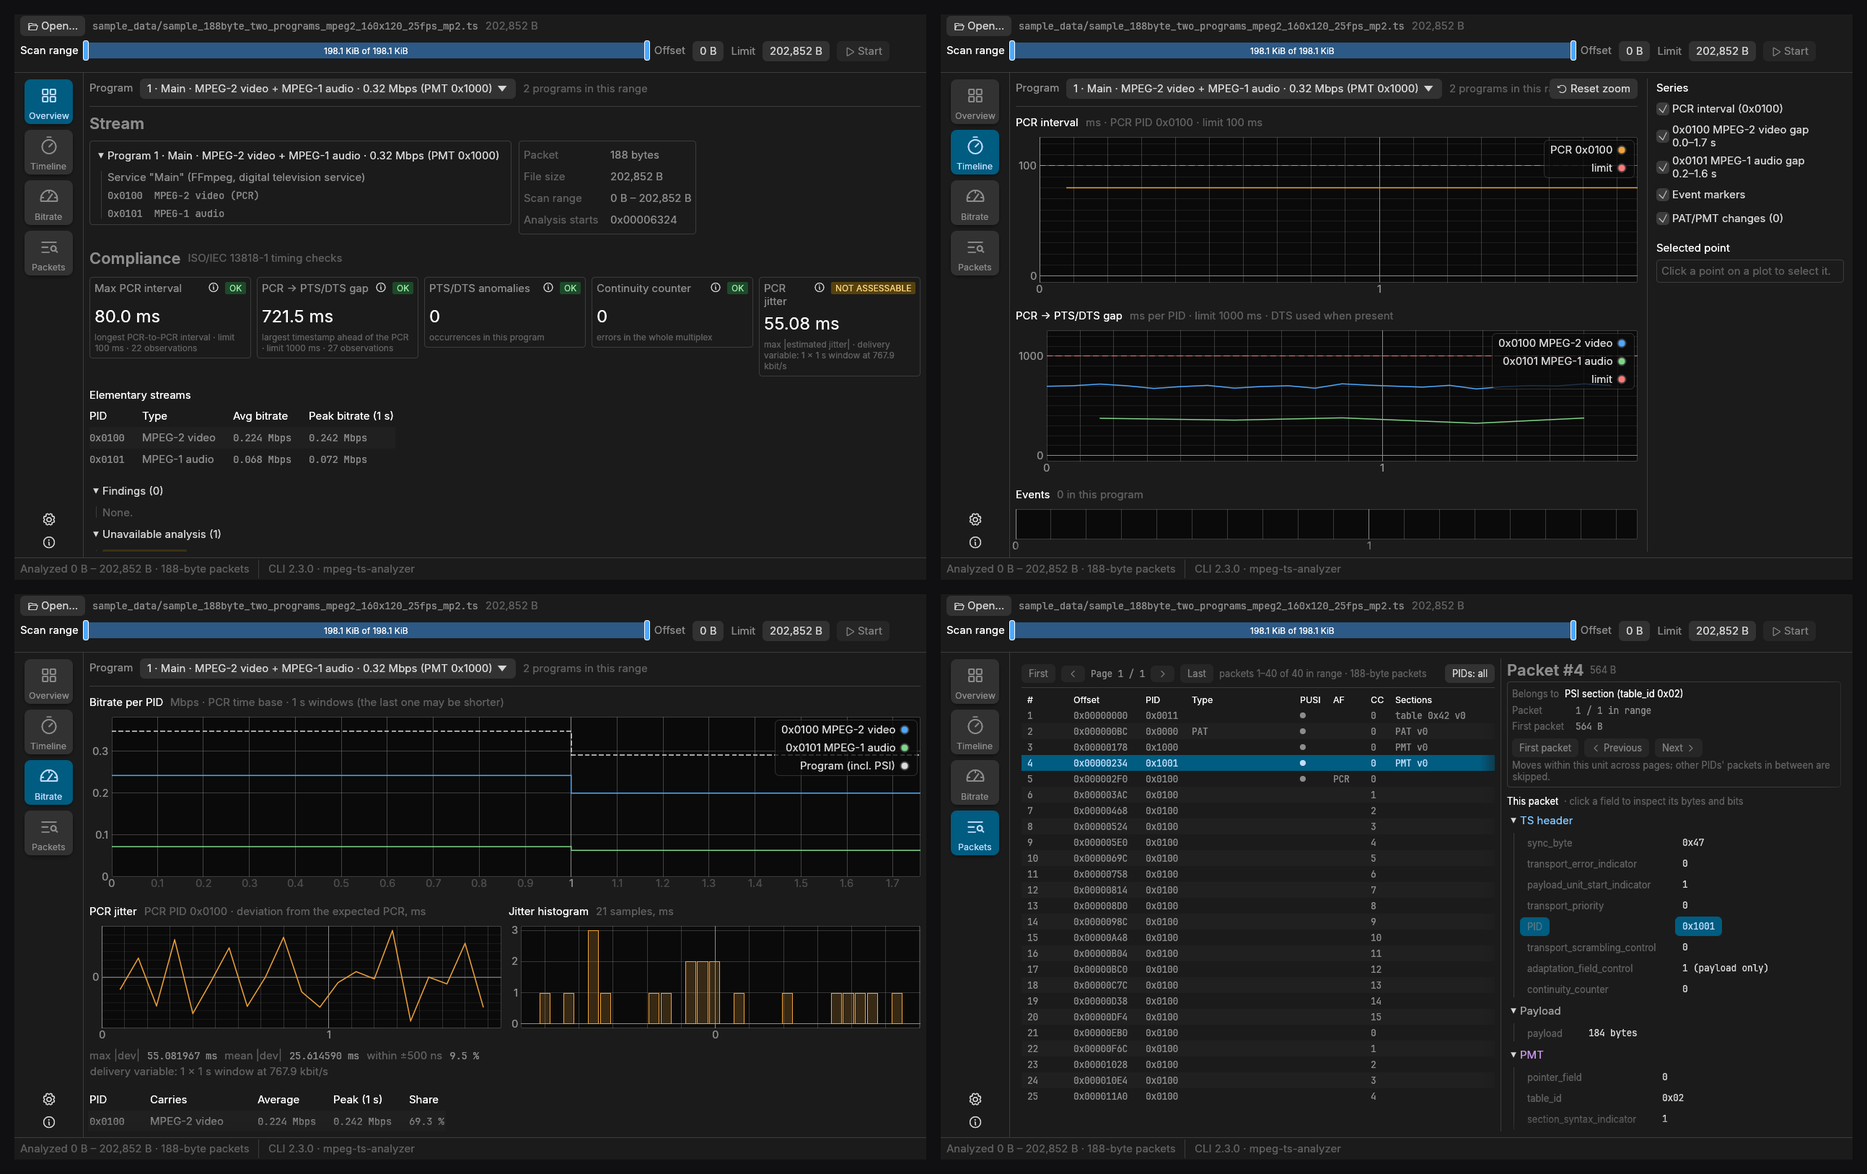
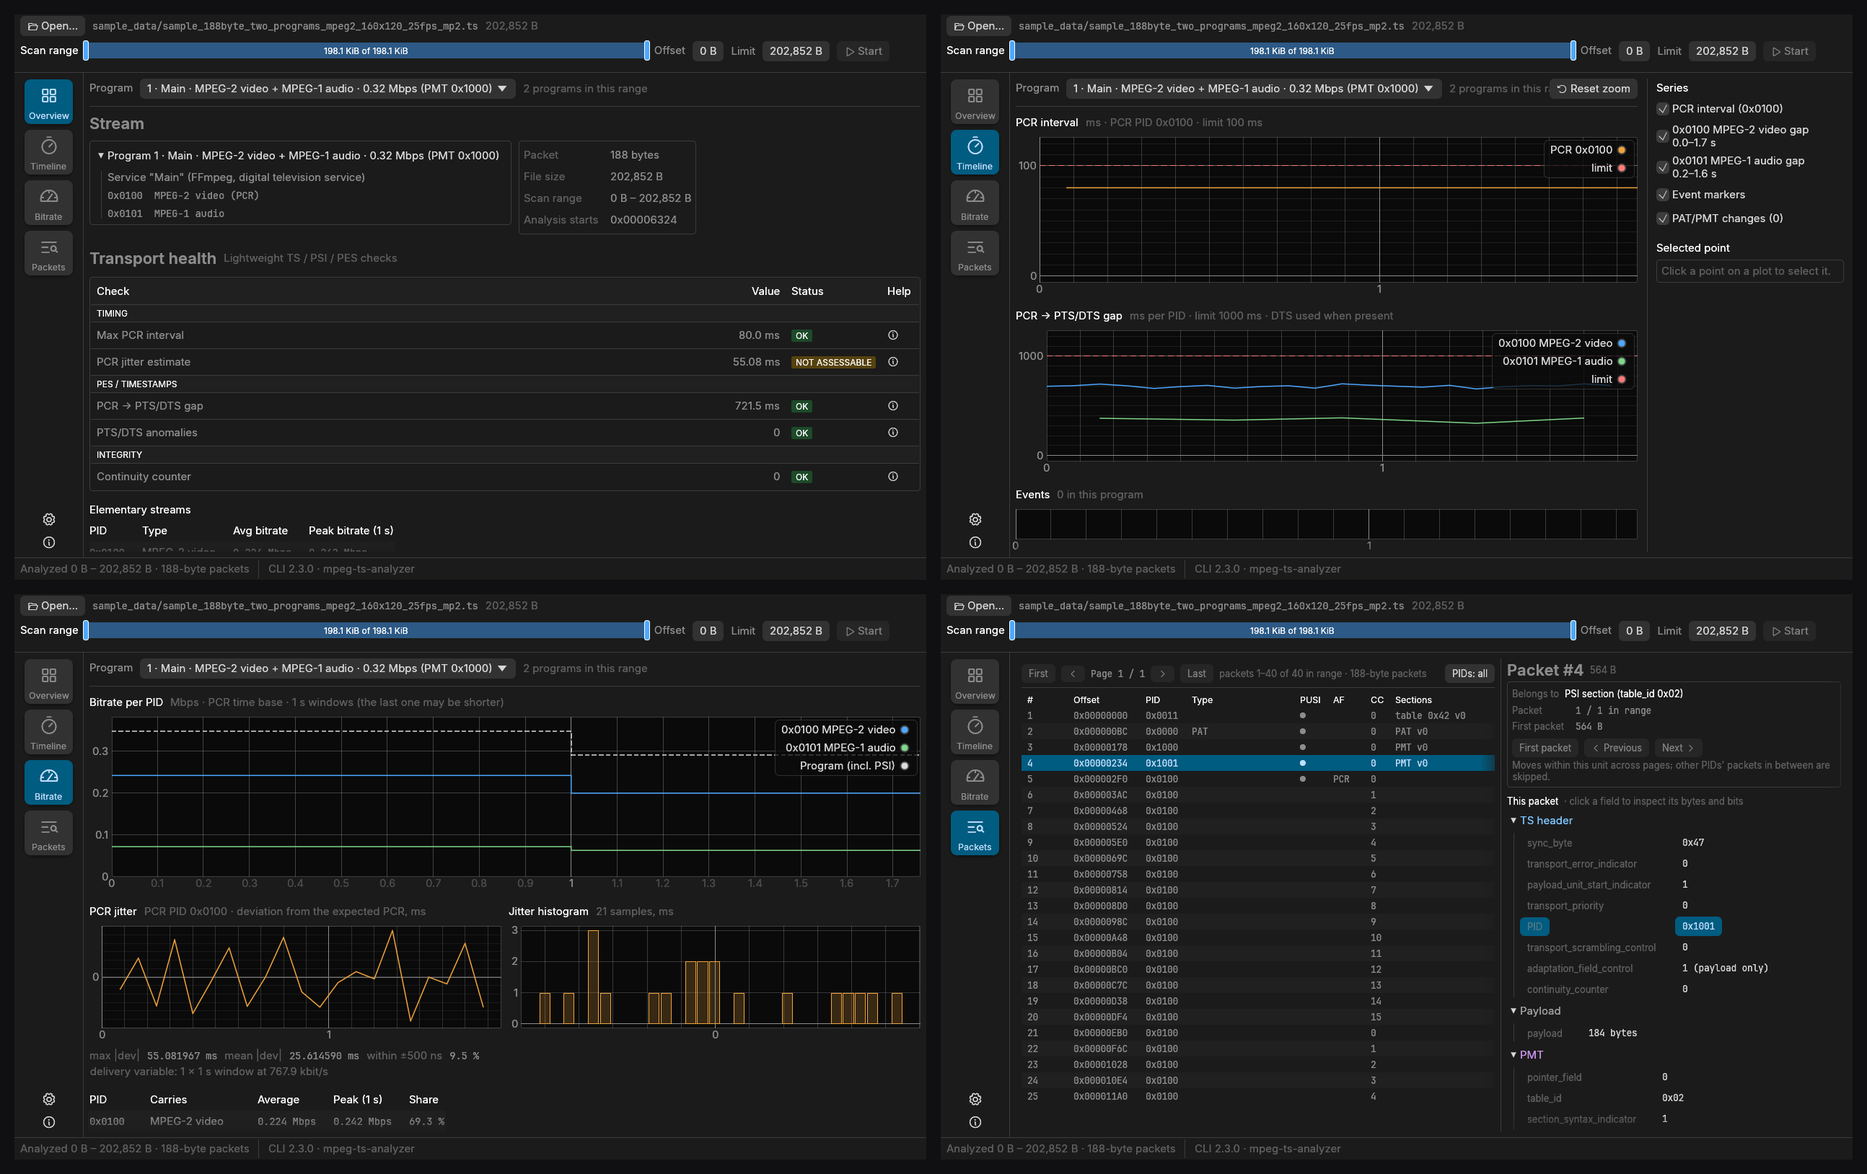
Document the Transport health table and check pages
Update the GUI design (Overview section and decisions) and the Overview
guide, call the diagnostic sample's defects checks rather than cards, and
regenerate docs/images/gui-tabs.png.

diff --git a/tools/generate_all_findings/main.go b/tools/generate_all_findings/main.go
@@ -1,5 +1,5 @@
 // Command generate_all_findings writes a short, deterministic transport stream
-// in which every Overview compliance card of the range analysis reports a
+// in which every Overview transport-health check of the range analysis reports a
 // non-OK result. It is intentionally invalid: use it to demonstrate and test
 // the verdicts, never as an example of a compliant stream.
 //

diff --git a/docs/gui/design.md b/docs/gui/design.md
@@ -141,40 +141,75 @@ not affected by it.
 
 Stream section first (program tree with PIDs and PCR PID; the PAT changes and
 the program's PMT changes in the range, with the PIDs they add, remove or
-retype and PMT PID moves; file information), then compliance
-check cards, the elementary stream table, and findings.
+retype and PMT PID moves; file information), then the Transport health table,
+the elementary stream table, findings and unavailable analysis. Overview has
+two pages (`OverviewPage`): the summary, and the full-page explanation of one
+check (`CheckDetail`).
 
-- **Cards**: Max PCR interval, PCR → PTS/DTS gap, PTS/DTS anomalies,
-  Continuity counter and PCR jitter, each with the CLI's status as a badge,
-  the value and a short note (PCR jitter: the CLI's delivery assessment and
-  its evidence, or the reason it is not assessable).
-- **Explanations**: a focusable information button next to each card title
-  (accessible name and tooltip `About <card>`) opens a window titled with the
-  card: what it measures, scope, value, every status with its threshold,
-  when it is skipped, limitations and a link to Timeline or Bitrate. Escape,
-  the close button or a click outside closes it; it keeps no other state. The
-  texts live in one table, `gui/src/views/metric_help.rs`, and state the
-  CLI's thresholds (100 ms, 1000 ms, ±500 ns, ±25 µs) and, for PCR jitter, the
-  byte-position model, the delivery assessment (1-second window rates within
-  ±1 %, no estimate beyond 1 ms) and `not_assessable`.
-- **Layout**: the cards form a row-major grid. The column count is how many
-  220-point cards with 8-point spacing fit in the visible width (at least one);
-  cards in a row share the width equally, and below one card width the single
-  card takes the available width and its text wraps. The title wraps beside
-  the badge and button instead of overlapping them. The stream section stacks
-  the program and the file information below 760 points, and the elementary
-  stream table scrolls horizontally on its own, so nothing widens the page.
+- **Transport health table**: one non-collapsible table with the columns
+  Check, Value, Status and Help, grouped by category. The order is fixed:
+  Timing (Max PCR interval, PCR jitter estimate), PES / Timestamps
+  (PCR → PTS/DTS gap, PTS/DTS anomalies), Integrity (Continuity counter).
+  Structure and Multiplexing join as their checks land (#157). A check is
+  listed when the CLI reported it. There is no scope column or badge: the
+  selected program is shown above, and exceptions (Continuity counter covers
+  the whole multiplex) are on the detail page. Status is the CLI's status
+  verbatim as a badge sized to its text; a status the GUI does not describe
+  keeps the warning color and a tooltip saying so. Help holds the focusable
+  information button (accessible name and tooltip `About <check>`).
+- **Layout**: Value, Status and Help are as wide as their widest cell,
+  measured from the text, and keep that width at every window size; Check
+  takes the rest and its name wraps. The other cells are centered on the
+  check name, Value right-aligned. The table uses the visible width, so a
+  narrow window never scrolls sideways for it. The stream section stacks the
+  program and the file information below 760 points, and the elementary
+  stream table scrolls horizontally on its own.
+- **Check model**: `gui/src/views/check_help.rs` holds one entry per check —
+  category, title, a one-line summary, what it measures, what it applies to,
+  what the value means, every status with its condition, when it is skipped,
+  limitations and the Timeline or Bitrate link — and its order is the table
+  order. `overview::row` turns the report into a check's value, status and
+  current result (only fields the CLI provided). A new check is one
+  `check_help` entry and one `row` arm. The texts state the CLI's thresholds
+  (100 ms, 1000 ms, ±500 ns, ±25 µs) and, for PCR jitter, the byte-position
+  model, the delivery assessment (1-second window rates within ±1 %, no
+  estimate beyond 1 ms) and `not_assessable`.
+- **Detail page**: opened by the information button or a findings link, inside
+  the Overview area (no window). Back to Overview stays above the page's own
+  scroll area. The page has the title and status, the summary line, Current
+  result (label and value, wrapping), the check's findings, Verdicts (the only
+  table: status badge and condition per status; the current status is
+  highlighted and its row marked selected), then What it measures, Applies
+  to, What the value means, When it is skipped, Limitations and Details with
+  `Open Timeline` / `Open Bitrate`, each a heading over a wrapped paragraph. A
+  finding with an offset has `Open packet`; one that Timeline marks as an
+  event (a continuity error on a PID of the program) also has
+  `Show on timeline`, which selects that event. Summary-only findings get no
+  offset.
+- **State**: `OverviewState` keeps the page, the summary's vertical scroll
+  offset and where focus goes. Opening a page focuses Back and starts the page
+  at its top; Back, or the Overview tile while Overview is shown, restores the
+  summary's offset and returns focus to the information button that opened
+  the page. The program selection is shared with Timeline and Bitrate and is
+  not touched. Navigation never reruns or rebuilds the analysis; a new
+  analysis shows its summary.
+- **Accessibility**: headings (Transport health, categories, the page title,
+  the page sections) are AccessKit headings; the tables, their rows (named
+  after the check, value and status, or the verdict and condition), column
+  headers and cells have table semantics with bounds; the page status is
+  announced as `Status: <status>`; Back, the information buttons, the finding
+  actions and the navigation buttons are named buttons reachable with Tab.
 - **Findings** are one normalized list built from the report
   (`overview::findings`): a finding for each failed compliance check, each
-  PTS/DTS anomaly group, each continuity event (one finding for the card if
-  the CLI reported errors without events), PCR jitter (labeled as an
-  estimate) and each analyzer warning. Any status other than `ok` and
-  `skipped`, including one the GUI does not know, is a finding with the CLI's
-  status as its badge, so an `NG` or `WARNING` card can never sit next to an
-  empty list. Each finding names its scope (program or whole multiplex); its
-  metric link opens the card's explanation. `skipped` cards and a PCR jitter
-  card that is `not_assessable` are listed under "Unavailable analysis" with
-  their status as the badge and the CLI's reason; they are not findings.
+  PTS/DTS anomaly group, each continuity event (one finding for the check if
+  the CLI reported errors without events), PCR jitter and each analyzer
+  warning. Any status other than `ok`, `skipped` and `not_assessable`,
+  including one the GUI does not know, is a finding with the CLI's status as
+  its badge, so an `NG` or `WARNING` row can never sit next to an empty list.
+  Each finding names its scope (program or whole multiplex); its check link
+  opens the check's page. `skipped` checks and a PCR jitter estimate that is
+  `not_assessable` are listed under "Unavailable analysis" with their status
+  as the badge and the CLI's reason; they are not findings.
 
 ### Timeline
 
@@ -481,9 +516,10 @@ GUI; the signed trusted comment must name exactly that file. Only then does
 | In-app update with `cargo-packager-updater` (#150) | Avoids the macOS "Open Anyway" detour after the first install; already part of the packaging toolchain; verifies a minisign signature and handles `.app`, NSIS and AppImage | Own downloader and installer; Sparkle (macOS only); only linking to the release page |
 | Find updates through the Releases API and a manifest asset of each release | No extra hosting; works with GUI releases that are not "latest" | A fixed-URL manifest on GitHub Pages (the docs workflow owns the Pages deployment) |
 | Startup update check on by default, with a setting | Users learn about releases without action; one unauthenticated request | Manual check only |
-| Explain each Overview card in a window opened by a focusable information button, from one table of texts | Works with keyboard and touch; long enough for limitations; one source for cards, findings and tests | Longer text on the cards; hover-only tooltips |
-| Overview cards in a responsive row-major grid | A narrow window must not hide a verdict | One wrapping row with fixed widths; a horizontal scroller |
-| One Findings list counting every non-OK card, events and warnings; skipped checks listed separately | The count must agree with the cards; an event counts once | The former Warnings list of parser events only |
+| Overview checks in one grouped Transport health table (Check, Value, Status, Help) instead of cards (#159) | #157 adds more checks; a table scans and compares better than a card per check, and a new check is one row; compact columns keep every verdict visible in a narrow window | A card per check in a responsive grid (#156); collapsible categories; a Scope column or badge |
+| Explain each check on a page inside Overview instead of a popup window (#159) | Long, structured text reads better in the normal content area; no separate sizing, focus, dismissal or nested scrolling; Back restores the summary as it was | A popup window per check (#156); hover-only tooltips; a top-level Checks screen |
+| One table of check texts (`check_help.rs`) for the table, detail pages, findings and tests | One source of truth; a new check is one entry | Texts in the view code |
+| One Findings list counting every non-OK check, events and warnings; skipped checks listed separately | The count must agree with the table; an event counts once | The former Warnings list of parser events only |
 | The GUI shows the CLI's statuses as they are; PCR jitter `not_assessable` is unavailable analysis, not a finding | The CLI decides whether a file-based estimate deserves a verdict (schema 2.0, #152); a variable-rate file is not evidence of a PCR fault | Downgrading or hiding `ng` in the GUI; grading the estimate in the GUI |
 | Modal progress dialog during analysis | Results of every analysis screen are being replaced; one clear place to wait and cancel | Per-screen overlays while other screens stay usable |
 

diff --git a/docs/gui/overview.md b/docs/gui/overview.md
@@ -11,9 +11,10 @@ Packages for macOS, Linux and Windows are described in
 
 [![The four GUI views: Overview and Timeline on the top row, Bitrate and Packets on the bottom row](../images/gui-tabs.png)](../images/gui-tabs.png)
 
-- **Overview** brings the detected program layout, stream properties, timing
-  compliance verdicts, continuity errors, PCR jitter, and per-stream bitrate
-  into one screen.
+- **Overview** brings the detected program layout, stream properties, the
+  transport-health checks (timing, PES timestamps, continuity), and
+  per-stream bitrate into one screen, with a full-page explanation of every
+  check.
 - **Timeline** plots the PCR interval and the PCR → PTS/DTS gap of every
   elementary stream against their limits, with continuity and PAT/PMT events.
 - **Bitrate** shows the bitrate of each PID over the range, the PCR jitter and
@@ -23,24 +24,45 @@ Packages for macOS, Linux and Windows are described in
 
 ## Read the Overview verdicts
 
-Overview shows five compliance cards for the selected program. Each card has a
-title, the verdict the CLI reported (`OK`, `NG`, `WARNING`, `ANOMALIES`,
-`ERRORS` or `SKIPPED`), the value and a short note. The **ⓘ** button next to
-the title opens an explanation of the card: what it measures, whether it covers
-the selected program or the whole multiplex, what the value means, the
-threshold behind every verdict, why it can be skipped, its limitations, and a
-link to the Timeline or Bitrate view with the details. The button can be
-reached with Tab and opened with Enter or Space; Escape, the close button or a
-click outside the window closes it. Opening it does not change the selected
-program or the analysis.
+Overview shows a **Transport health** table for the selected program. Each
+row is one check with the value and the verdict the CLI reported (`OK`, `NG`,
+`WARNING`, `ANOMALIES`, `ERRORS`, `NOT ASSESSABLE` or `SKIPPED`), grouped
+under categories that are always expanded:
 
-| Card | Scope | Verdicts |
-|---|---|---|
-| Max PCR interval | selected program (its PCR PID) | `OK` up to 100 ms, `NG` above |
-| PCR → PTS/DTS gap | selected program | `OK` up to 1000 ms, `NG` above |
-| PTS/DTS anomalies | selected program, per PID | `OK` or `ANOMALIES` |
-| Continuity counter | whole multiplex | `OK` or `ERRORS` |
-| PCR jitter | selected program (its PCR PID) | `OK` within ±500 ns, `WARNING` within ±25 µs, `NG` beyond, when delivery is constant; otherwise `NOT ASSESSABLE` |
+| Category | Check | Applies to | Verdicts |
+|---|---|---|---|
+| Timing | Max PCR interval | selected program (its PCR PID) | `OK` up to 100 ms, `NG` above |
+| Timing | PCR jitter estimate | selected program (its PCR PID) | `OK` within ±500 ns, `WARNING` within ±25 µs, `NG` beyond, when delivery is constant; otherwise `NOT ASSESSABLE` |
+| PES / Timestamps | PCR → PTS/DTS gap | selected program | `OK` up to 1000 ms, `NG` above |
+| PES / Timestamps | PTS/DTS anomalies | selected program, per PID | `OK` or `ANOMALIES` |
+| Integrity | Continuity counter | whole multiplex | `OK` or `ERRORS` |
+
+The table always lists the checks in this order. The verdict is shown exactly
+as the CLI reported it; a status this GUI does not know is still shown, with a
+tooltip saying so. In a narrow window the check names wrap and the Value,
+Status and Help columns keep their width, so every verdict stays visible
+without scrolling sideways.
+
+The **ⓘ** button in the Help column opens the check's page inside Overview;
+Overview stays selected in the left rail. The button can be reached with Tab
+and opened with Enter or Space. The page shows:
+
+- the **current result** — only what the CLI reported for this check, such as
+  the value, the limit, the program or PCR PID, the number of observations,
+  the first or worst offset, and the reason a check was skipped or not
+  assessed; for PCR jitter also the delivery assessment and its evidence;
+- the check's **findings**, each with **Open packet** when it has an offset
+  and **Show on timeline** when Timeline marks it (a continuity error on a PID
+  of the program);
+- the **verdicts**: every status the check can report and the condition behind
+  it, with the current one highlighted;
+- what the check measures, what it applies to, what the value means, when it
+  is skipped and its limitations;
+- a button that opens Timeline or Bitrate with the details.
+
+**Back to Overview** (or the Overview tile) returns to the table at the same
+scroll position, with the same program selected. Opening or leaving a page
+never runs the analysis again.
 
 PCR jitter is an **estimate**. A file has no packet-arrival timestamps, so the
 byte position stands in for time, which is exact only when the stream is
@@ -49,25 +71,22 @@ from the stream itself — its multiplex rate over 1-second windows must stay
 within ±1 % of the average, and no estimated jitter may reach 1 ms — and grades
 the estimate only when delivery is `constant`. For a `variable` or `unknown`
 delivery, such as a variable-bitrate stream without stuffing or a range shorter
-than about two seconds, the card shows `NOT ASSESSABLE` with the estimate as its
-value and the CLI's reason. Its note always gives the delivery assessment and
-evidence, for example `delivery constant: 2 × 1 s windows, max deviation 0.00 %
-of 75.2 kbit/s`. Even a graded estimate is not a direct hardware or TR 101 290
-measurement.
-
-The cards wrap to more rows as the window narrows, keeping their order, so no
-verdict is hidden off screen.
+than about two seconds, the row shows `NOT ASSESSABLE` with the estimate as its
+value, and the page gives the CLI's reason. The page always gives the delivery
+assessment and its evidence, for example `2 × 1 s windows, max deviation
+0.00 % of 75.2 kbit/s`. Even a graded estimate is not a direct hardware or
+TR 101 290 measurement.
 
 **Findings** lists everything that needs attention, and its count includes
-every card that is not `OK`: each failed check, each PTS/DTS anomaly kind per
-PID, each continuity error (with its offset), PCR jitter marked as an estimate,
-and the analyzer's warnings. Each row shows the verdict, the metric, the reason
-and whether it concerns the selected program or the whole multiplex; selecting
-the metric opens its explanation. A card counts once through its own events,
-not again for its total. A check the CLI skipped, and a PCR jitter estimate the
-CLI found `not_assessable`, are listed under **Unavailable analysis** instead,
-with the CLI's reason; they are not findings. The GUI shows the CLI's verdicts
-as they are and never changes them.
+every check that is not `OK`: each failed check, each PTS/DTS anomaly kind per
+PID, each continuity error (with its offset), PCR jitter, and the analyzer's
+warnings. Each row shows the verdict, the check, the reason and whether it
+concerns the selected program or the whole multiplex; selecting the check
+opens its page. A check counts once through its own events, not again for its
+total. A check the CLI skipped, and a PCR jitter estimate the CLI found
+`not_assessable`, are listed under **Unavailable analysis** instead, with the
+CLI's reason; they are not findings. The GUI shows the CLI's verdicts as they
+are and never changes them.
 
 To see every verdict at once, open the intentionally invalid
 [diagnostic sample](../development/sample-data.md#diagnostic-sample-with-every-overview-finding):

diff --git a/tools/generate_all_findings/README.md b/tools/generate_all_findings/README.md
@@ -1,6 +1,6 @@
 # All-findings diagnostic fixture
 
-Write a short constant-rate stream in which every Overview compliance card
+Write a short constant-rate stream in which every Overview transport-health check
 reports a problem, then check its defects with TSDuck. The stream is
 **intentionally invalid**: use it to demonstrate and test verdicts, never as an
 example of a compliant stream.
@@ -27,7 +27,7 @@ slot clock (10 s + slot × 20 ms), so the byte position is an exact time proxy.
 The stream is long enough for two 1-second windows of PCR time, so the PCR
 jitter analysis can establish constant delivery. The defects, by packet index:
 
-| Card | Defect | Expected analysis |
+| Check | Defect | Expected analysis |
 |---|---|---|
 | Max PCR interval | packets 22, 24 and 26 carry no PCR | `ng`, 160 ms (limit 100 ms), 54 intervals |
 | PCR → PTS/DTS gap | every audio PTS is 1200 ms ahead of its PCR time | `ng`, 1200 ms (limit 1000 ms), 82 timestamps |
@@ -37,7 +37,7 @@ jitter analysis can establish constant delivery. The defects, by packet index:
 
 `-omit` leaves defects out (`pcr-interval`, `pcr-pts-gap`, `pts-backward`,
 `cc-gap`, `pcr-jitter`, or `all`); `tsparser` tests use it to show that each
-defect turns only its own card non-OK, and that the stream without defects is
+defect turns only its own check non-OK, and that the stream without defects is
 OK everywhere, with constant delivery and zero estimated jitter. They also
 check that the committed files equal the generator output and pin the results
 above for both packet sizes.

diff --git a/docs/development/sample-data.md b/docs/development/sample-data.md
@@ -23,7 +23,7 @@ ffmpeg -f lavfi -i "color=c=red:s=320x240:d=2,format=yuv420p" \
 `sample_data/sample_188byte_all_findings.ts` and its 192-byte M2TS twin
 `sample_data/sample_192byte_all_findings.ts` (23 KiB each) are **intentionally
 invalid**. They are not examples of a good stream: each carries deliberate
-defects so that every Overview compliance card reports a problem in one
+defects so that every Overview transport-health check reports a problem in one
 analysis — a 160 ms PCR interval, a 1200 ms PCR → PTS/DTS gap, a backward PTS,
 one continuity-counter gap and a PCR that is 100 µs late. The stream is
 delivered at a constant 75.2 kbit/s for 2.4 s, long enough for two 1-second
